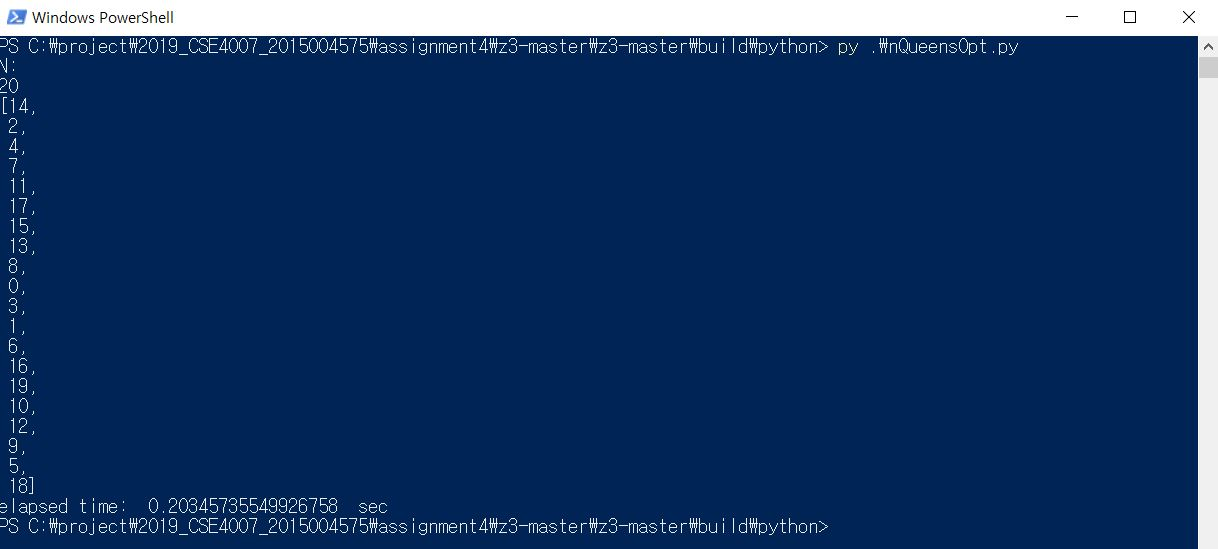
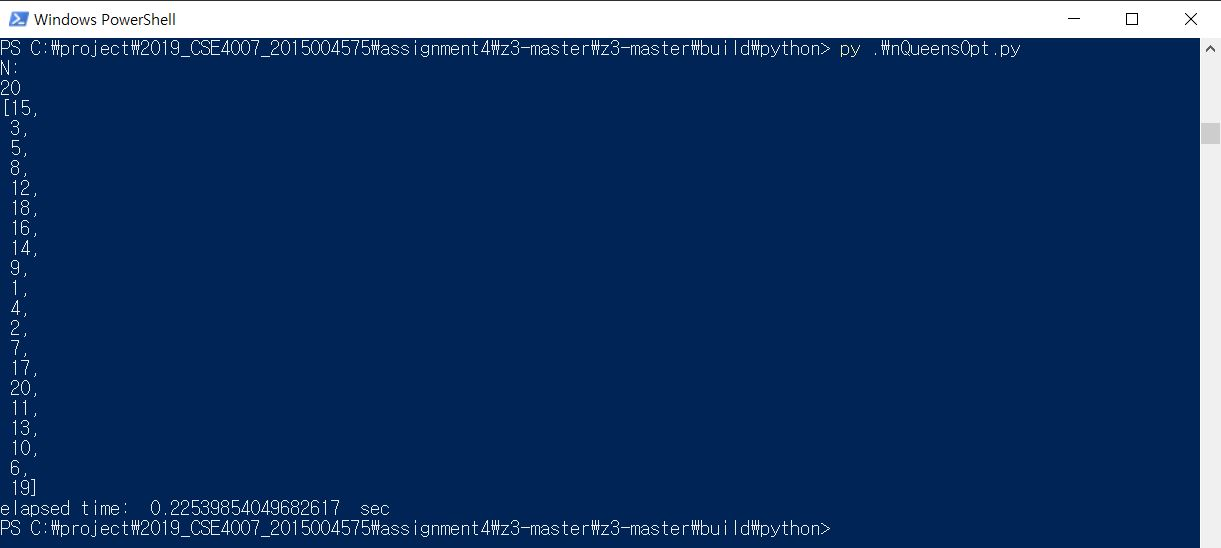
change 0~(N-1) to 1~N

diff --git a/assignment4/nQueensOpt.py b/assignment4/nQueensOpt.py
@@ -28,7 +28,7 @@ s.add(n_queens_c) # Constraints 입력
 
 if s.check() == sat: # 성공여부?
     m = s.model() # 연산
-    r = [m.evaluate(X[i]) for i in range(N)] # 결과값 r에 저장 
+    r = [m.evaluate(X[i]+1) for i in range(N)] # 결과값 r에 저장 => 하지만 0 ~ (N-1)이 아닌 1 ~ N 을 출력해야하므로 (value+1)
     print_matrix(r) # 결과값 출력
 
 print("elapsed time: ", time.time() - start, " sec") #종료시간 측정 및 출력
